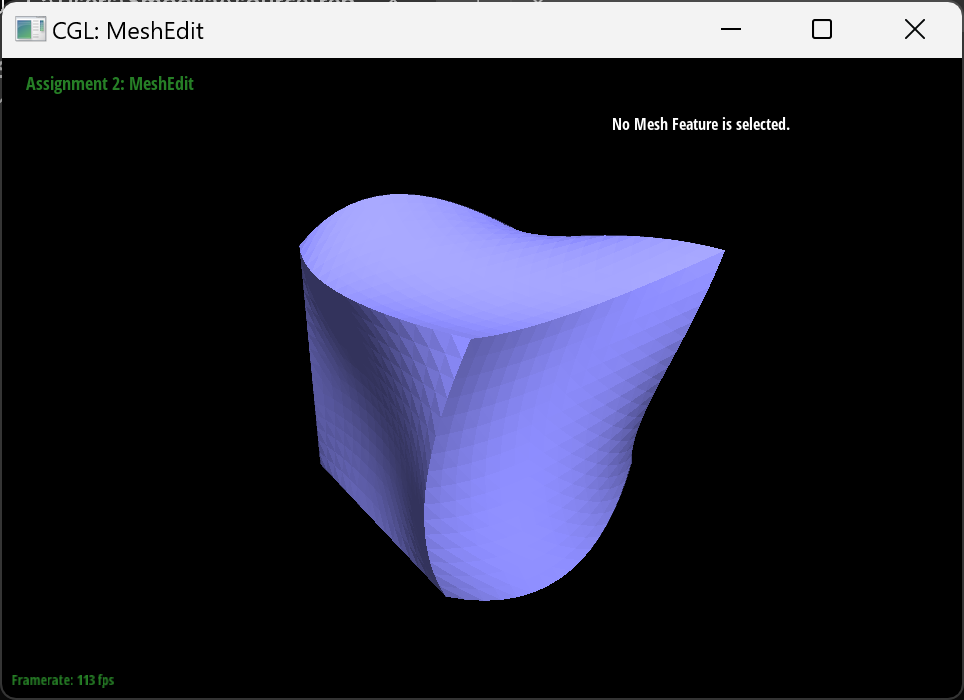
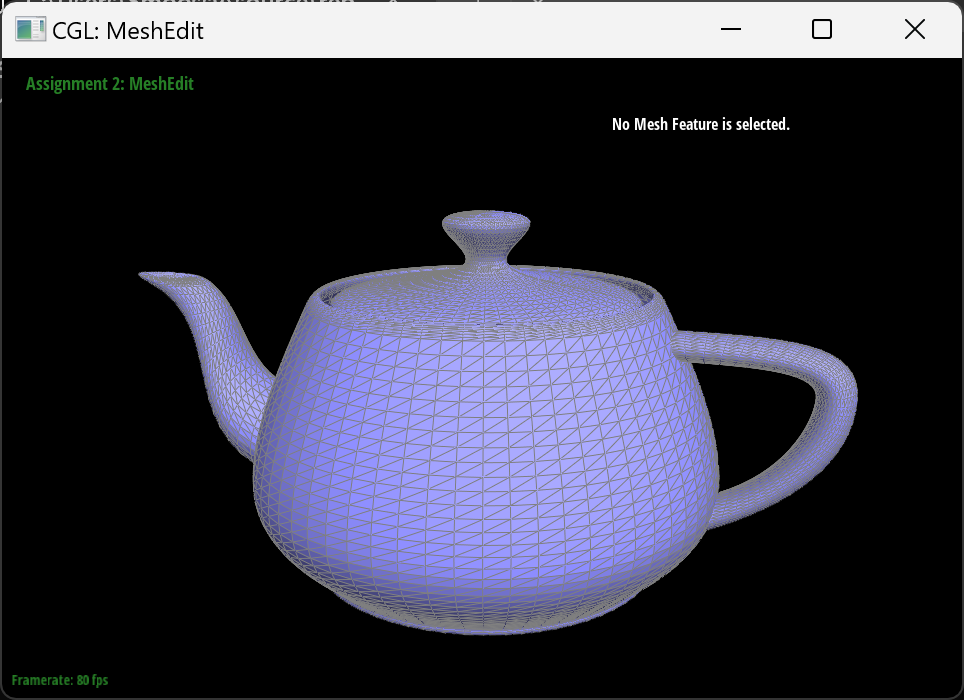
Add files via upload

Changed region(s): [[0.1245, 0.27, 0.9025, 0.93], [0.0622, 0.96, 0.1245, 0.99]]

diff --git a/hw2/index.html b/hw2/index.html
@@ -28,7 +28,7 @@
 	<body>
 		<div class="container">
 		<h1>CS184/284A Summer 2025 Homework 2 Write-Up</h1>
-		<div style="text-align: center;">Names: </div>
+		<div style="text-align: center;">Names: Muze Du</div>
 
 		<br>
 
@@ -39,8 +39,7 @@
 		Link to GitHub repository: <a href="https://github.com/cal-cs184/hw2-meshedit-hachimi/tree/Smoossy-patch-1">repos</a>
 
 		<figure>
-			<img src="teapot.png" alt="Teapot" style="width:50%"/>
-			<figcaption>You can add images with captions!</figcaption>
+			<img src="17.png" alt="Teapot" style="width:50%"/>
 		</figure>
 
 		<!--
@@ -56,6 +55,14 @@
 		<p>De Casteljau subdivision is a simple way to present bezier curves with multiple points. Through decreasing the number of points by calculating weighted points regarding to \(t\) and its neighbour control points, we can finally get to a single point regarding to \(t\).</p>
 		<div style="display: flex; flex-direction: column; align-items: center;">
 		<img src="1.png" width="400px" align="center" />
+		<div style="display: flex; flex-direction: row; align-items: center;">
+		<img src="18.png" width="300px" align="center" />
+		<img src="19.png" width="300px" align="center" />
+		</div>
+		<div style="display: flex; flex-direction: row; align-items: center;">
+		<img src="20.png" width="300px" align="center" />
+		<img src="21.png" width="300px" align="center" />
+		</div>
 		</div>
 		
 
@@ -63,7 +70,7 @@
 		<p>Bezier surface has no big difference from bezier curve. By first calculating weighted points on each row through implementing \(u\)and then calculating the final point regarding to the just implemented points and \(v\), we can also get to a single point determined by control points and \(u, v\).</p>
 		<div style="display: flex; flex-direction: column; align-items: center;">
 		<img src="2.png" width="400px" align="center" />
-		<figcaption style="text-align: center;">However, due to unkown issues, for which I have tried seeking for help from TAs, receiving no possible solutions, I could only generate the graph of the wavy cube instead of the teapot.</figcaption>
+		<figcaption style="text-align: center;">The bez teapot.</figcaption>
 		</div>
 		
 
